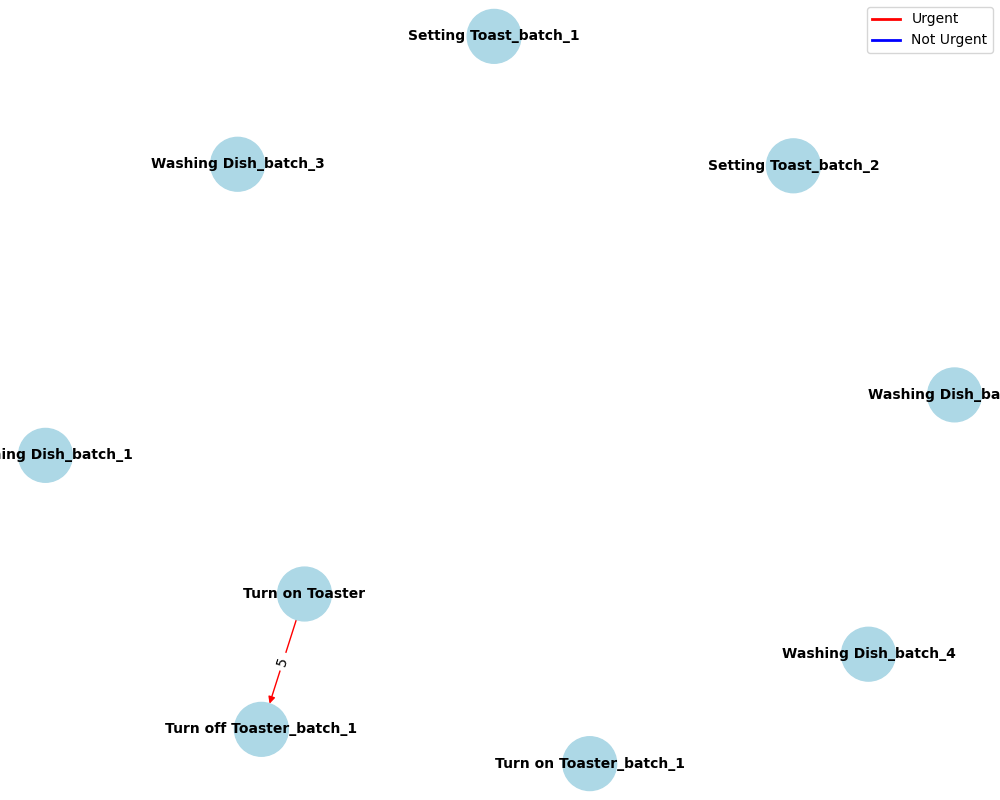
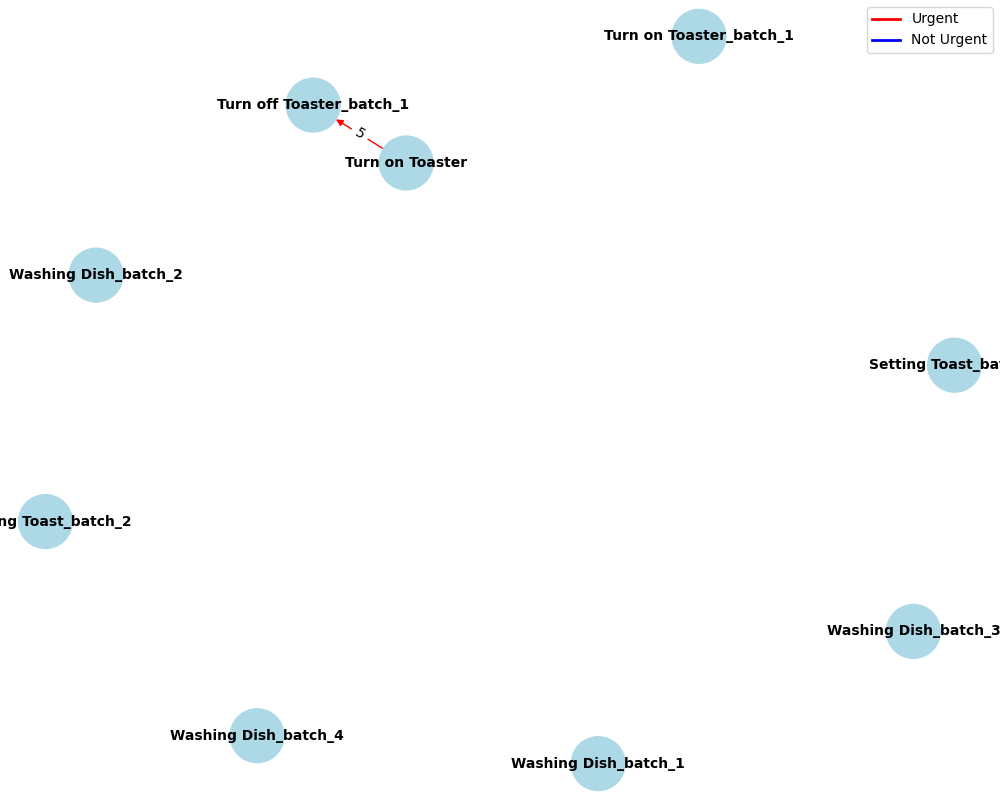
작업 진행 중

diff --git a/task_management/handler/subtask_decomposer.py b/task_management/handler/subtask_decomposer.py
@@ -3,21 +3,20 @@ from typing import List
 from concept.task import Subtask, Task
 
 
-class BatchDecomposer:
-    def __init__(self, batch_size: int):
-        self.batch_size = batch_size
+class SubtaskDecomposer:
+    def __init__(self, batch_duration: int):
+        self.batch_duration = batch_duration
 
     def decompose(self, task: Task) -> List[Subtask]:
         new_subtasks = []
         for subtask in task.subtasks:
-            if subtask.type == "Interaction":
+            if subtask.decomposition.repetition > 1:
                 batched_subtasks = self._decompose_interaction(subtask)
                 new_subtasks.extend(batched_subtasks)
-            else:
-                new_subtasks.append(subtask)
         return new_subtasks
 
     def _decompose_interaction(self, subtask: Subtask) -> List[Subtask]:
+        """Subtask의 Repetition, Batch_duration을 고려하여 Task를 분할"""
         repetitions = subtask.decomposition.repetition
         intervals = subtask.decomposition.interval
         actions = subtask.decomposition.actions
@@ -27,25 +26,25 @@ class BatchDecomposer:
         batch_index = 1
 
         while current_repetition < repetitions:
-            batch_repetitions = min(self.batch_size, repetitions - current_repetition)
-            batch_name = f"{subtask.name}_batch_{batch_index}"
+            batch_repetitions = repetitions - current_repetition
+            batch_name = f"{subtask.name}_{batch_index}"
 
             # Check if the batch is the first one for urgency constraint adjustment
-            urgency_constraint = False
-            for constraint in subtask.temporal_constraints:
-                if constraint.urgency is False:
-                    urgency_constraint = True
-                    break
+            # urgency_constraint = False
+            # for constraint in subtask.temporal_constraints:
+            #     if constraint.urgency is False:
+            #         urgency_constraint = True
+            #         break
 
-            new_temporal_constraints = [
-                Subtask.TemporalConstraint(
-                    constraint_type=constraint.type,
-                    subtask=constraint.subtask,
-                    interval=constraint.interval,
-                    urgency=(constraint.urgency if not urgency_constraint else True),
-                )
-                for constraint in subtask.temporal_constraints
-            ]
+            # new_temporal_constraints = [
+            #     Subtask.TemporalConstraint(
+            #         constraint_type=constraint.type,
+            #         subtask=constraint.subtask,
+            #         interval=constraint.interval,
+            #         urgency=(constraint.urgency if not urgency_constraint else True),
+            #     )
+            #     for constraint in subtask.temporal_constraints
+            # ]
 
             batched_subtasks.append(
                 Subtask(
@@ -57,7 +56,7 @@ class BatchDecomposer:
                         interval=intervals * batch_repetitions,
                     ),
                     decomposition=Subtask.Decomposition(
-                        repetition=batch_repetitions,
+                        repetition=1,
                         interval=intervals,
                         actions=actions,
                     ),

diff --git a/main.py b/main.py
@@ -5,7 +5,7 @@ import os
 from concept.agent import Agent
 from concept.env import Env
 from concept.task import Task, parse_constraints, parse_tasks
-from task_management.handler.subtask_decomposer import BatchDecomposer
+from task_management.handler.subtask_decomposer import SubtaskDecomposer
 from task_management.planner.exhaustive_planner import ExhaustivePlanner
 from task_management.scheduler.exhaustive_scheduler import ExhaustiveScheduler
 from util.visualizer import visualize_graph, visualize_tree
@@ -38,10 +38,11 @@ def load_tasks_and_constraints(task_name):
 
     tasks = parse_tasks(task_data)
     # Decompose tasks into batches
-    batch_decomposer = BatchDecomposer(batch_size=3)
+    batch_decomposer = SubtaskDecomposer(batch_duration=5)
     decomposed_tasks = [
         Task(task.name, batch_decomposer.decompose(task)) for task in tasks
     ]
+    print(decomposed_tasks)
 
     # Parse constraints using decomposed tasks
     constraints = parse_constraints(decomposed_tasks)
